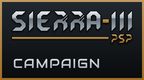
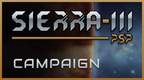
XMB tile: smoked glass over the wallpaper instead of the steel plate
The tile's plate is now the patch of its build's PIC1 that it covers on the
XMB (the highlighted tile's measured spot, (25, 101)), darkened 45%, so it
reads as tinted glass over the scene. Smoked rather than clear: the chrome
holds up against the planet's bright limb, and a few pixels' error in the
photo-measured position reads as a material edge, not a jog. GLASS_DIM and
GLASS_BLUR set the strength.

diff --git a/psp/xmb/icon0.py b/psp/xmb/icon0.py
@@ -1,7 +1,8 @@
 #!/usr/bin/env python3
 """Draws ICON0.PNG, the game-list tile, for both builds from the Sierra-III mark.
 
-The tile: the steel plate and border of the first placeholder, the border in the mark's amber;
+The tile: smoked glass over the wallpaper (the patch of PIC1 it covers, darkened) inside the
+first placeholder's border, in the mark's amber;
 the mark as it sits on the wallpaper (PSP under the III), with the title's amber rule under
 SIERRA running up to PSP; the build named beneath it in Audiowide, the font of the title's
 COMBAT EVOLVED. Written to psp/xmb/<campaign|mp>/ICON0.PNG.
@@ -26,9 +27,13 @@ SS = 4                               # supersampling
 
 BUILDS = {"campaign": "CAMPAIGN", "mp": "MULTIPLAYER"}
 # The colours are the mark's and the title's (sierra_mark.svg), so the tile reads as one set.
-PLATE_TOP, PLATE_BOTTOM = (34, 40, 46), (10, 12, 14)
 AMBER_TOP, AMBER_BOTTOM = (0xc2, 0x9b, 0x63), (0xa0, 0x6e, 0x26)
 STEEL_TOP, STEEL_BOTTOM = (0xe9, 0xee, 0xf2), (0x9a, 0xa7, 0xb2)
+
+# Where the XMB draws the highlighted tile over PIC1 (docs/xmb_menu.md: about (24, 101), 146 x 81,
+# measured from a photo, +-4 px); the 144 x 80 tile centred there.
+TILE_AT = (25, 101)
+GLASS_DIM, GLASS_BLUR = 0.45, 0.0
 
 BORDER = 2                           # px at tile size, as on the placeholder
 MARK_W = 120                         # the lettering's width at tile size (600 units in the SVG)
@@ -104,11 +109,22 @@ def label(text, px):
     return fill, ascent
 
 
-def tile(name):
+def glass(build, dim, blur):
+    """The patch of the build's wallpaper the tile covers, so the tile reads as glass over the
+    scene: darkened by `dim` (0 = clear) and softened by `blur` (tile px)."""
+    pic1 = Image.open(os.path.join(HERE, build, "PIC1.PNG")).convert("RGB")
+    x, y = TILE_AT
+    patch = pic1.crop((x, y, x + TILE[0], y + TILE[1])).resize((TILE[0] * SS, TILE[1] * SS), Image.LANCZOS)
+    if blur:
+        patch = patch.filter(ImageFilter.GaussianBlur(blur * SS))
+    return Image.eval(patch, lambda v: int(v * (1 - dim)))
+
+
+def tile(build, name, dim=0.0, blur=0.0):
     w, h = TILE[0] * SS, TILE[1] * SS
     img = vgradient((w, h), AMBER_TOP, AMBER_BOTTOM).convert("RGBA")
     b = BORDER * SS
-    img.paste(vgradient((w - 2 * b, h - 2 * b), PLATE_TOP, PLATE_BOTTOM), (b, b))
+    img.paste(glass(build, dim, blur).crop((b, b, w - b, h - b)), (b, b))
 
     m, margin = mark(MARK_W * SS)
     img.alpha_composite(with_shadow(m, dy=SS, blur=SS * 0.8), (round(MARK_X * SS - margin), round(MARK_Y * SS - margin)))
@@ -127,7 +143,7 @@ def main():
     for build, name in BUILDS.items():
         path = os.path.join(HERE, build, "ICON0.PNG")
         # plain, non-interlaced PNG with no metadata: the XMB can show a blank tile otherwise
-        tile(name).save(path, format="PNG", optimize=True)
+        tile(build, name, GLASS_DIM, GLASS_BLUR).save(path, format="PNG", optimize=True)
         print("wrote", os.path.relpath(path, HERE), TILE)
 
 

diff --git a/docs/xmb_menu.md b/docs/xmb_menu.md
@@ -31,8 +31,9 @@ The game title sits at the top (x 152–328, y 14–73), centred on the screen's
 
 ## The tile (2026-10-17)
 
-`psp/xmb/icon0.py` draws both builds' ICON0 from `sierra_mark.svg`: the first placeholder's steel plate, its 2 px border in the mark's amber (`#c29b63` → `#a06e26`), the mark as it sat on the wallpaper (PSP under the III, 120 px wide), the title's amber rule under SIERRA up to PSP (it ends where the III starts), and the build's name below it in Audiowide at 13 px with the title's steel, tracked a little tighter than COMBAT EVOLVED so MULTIPLAYER fits the mark's width. The two entries differ only in that name.
+`psp/xmb/icon0.py` draws both builds' ICON0 from `sierra_mark.svg`: smoked glass (the patch of that build's PIC1 under the tile, at its measured spot (25, 101), darkened 45%: `GLASS_DIM`, `GLASS_BLUR`), the first placeholder's 2 px border in the mark's amber (`#c29b63` → `#a06e26`), the mark as it sat on the wallpaper (PSP under the III, 120 px wide), the title's amber rule under SIERRA up to PSP (it ends where the III starts), and the build's name below it in Audiowide at 13 px with the title's steel, tracked a little tighter than COMBAT EVOLVED so MULTIPLAYER fits the mark's width. The two entries differ only in that name.
 
+- **Glass, not a plate** (Sheepdog01, 2026-10-17): the tile fakes transparency over the wallpaper. Smoked, so the chrome holds up against the planet's limb, and so a few pixels' error in the measured position reads as a material edge rather than a jog. The wallpaper fades in only once the entry is highlighted; before that the tile sits on the XMB theme.
 - **Drawn at 4× and shrunk.** The mark's outline is about 1 px at tile size; drawn directly it breaks up (the lesson from designing it at 2×).
 - **Outline under fill.** The master asks for `paint-order="stroke"`, which cairosvg ignores; the script renders the outline and the fill as two passes so PSP's thin strokes keep their amber.
 - **How PIC1 lost the mark** (the layered title master isn't kept): `backdrop.py` at seed 7 plus `compose.py`'s rail maths rebuilds the wallpaper's plate exactly (0 difference outside the titles) [D], so the sky under the old mark is the original sky. The rule under HALO was lifted against that plate and laid on the bottom rail, 174 rows down (the rails sit at y 115 and 463 at 2×).
